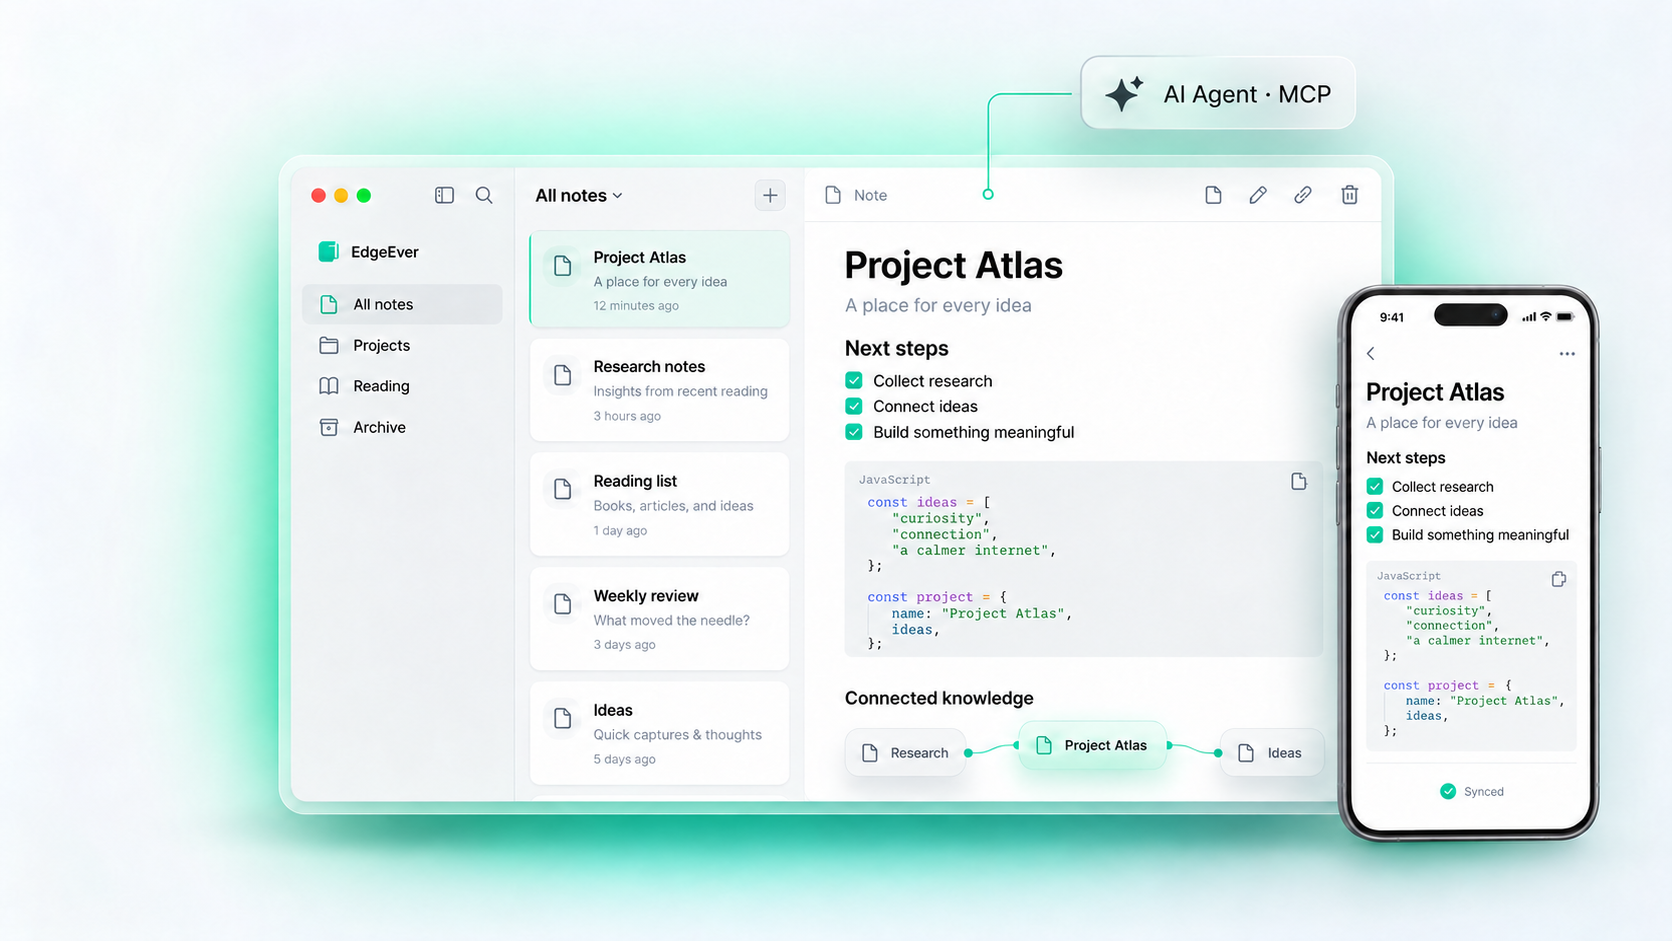
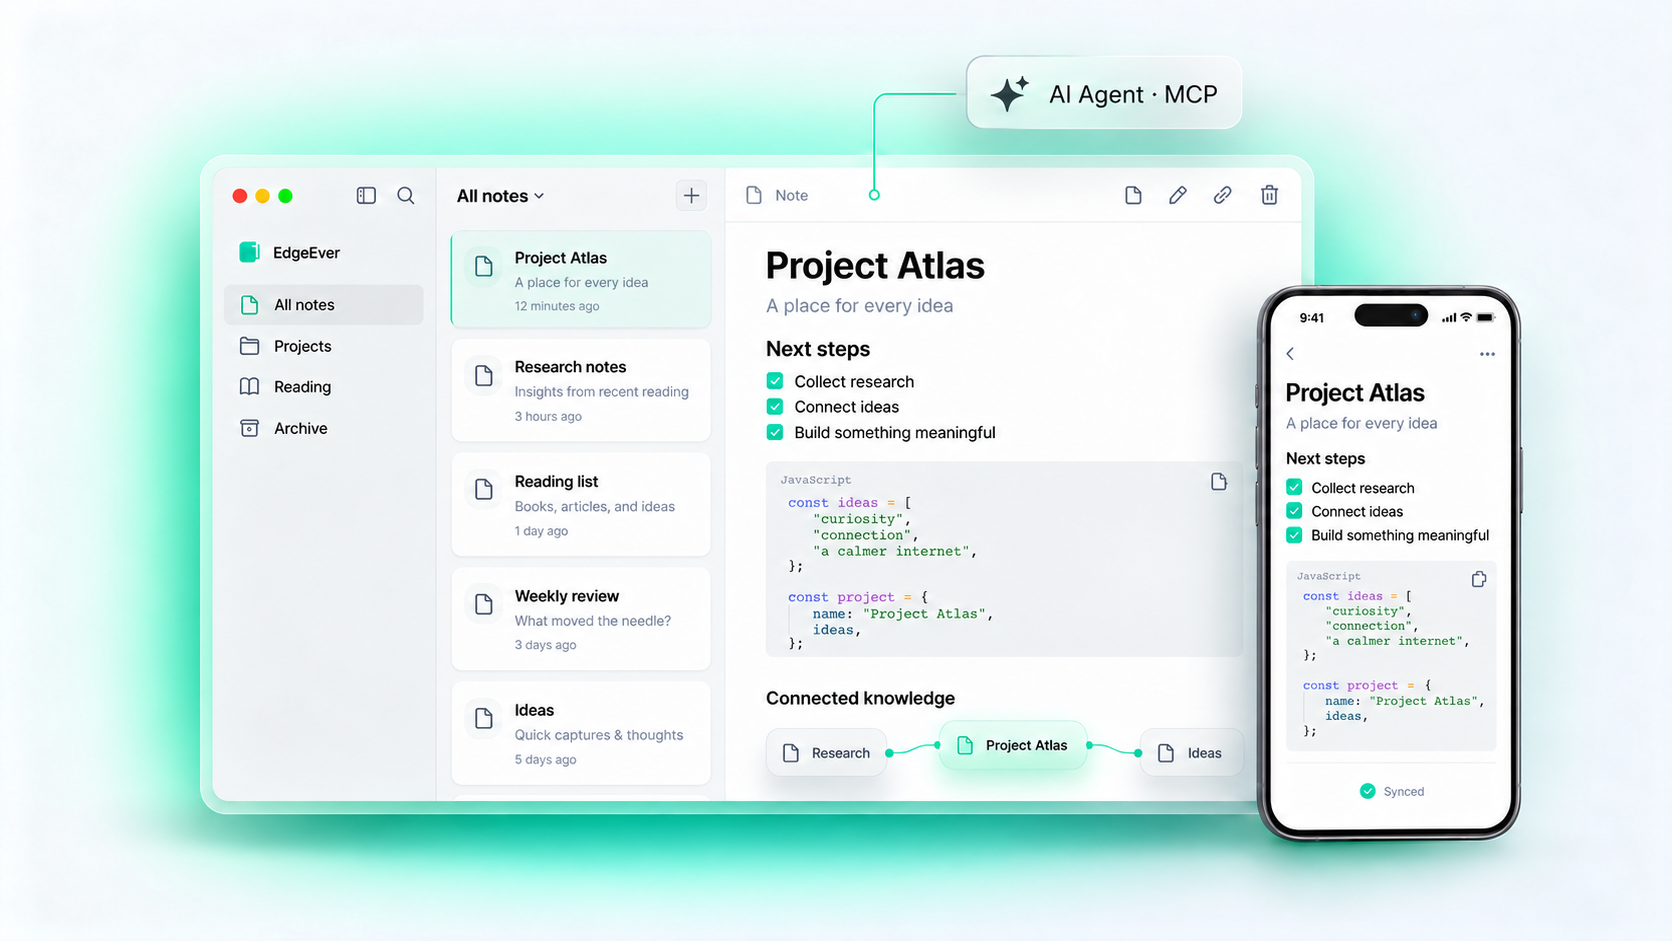
docs: balance hero composition across README and website

diff --git a/README.ja.md b/README.ja.md
@@ -23,7 +23,7 @@
     <a href="#features">機能とワークフローマトリクス</a>
   </p>
   <p align="center">
-    <img src="assets/readme/edgeever-hero-v5.png" alt="EdgeEver ワークスペースプレビュー" width="800" />
+    <img src="assets/readme/edgeever-hero-v6.png" alt="EdgeEver ワークスペースプレビュー" width="800" />
   </p>
 </div>
 

diff --git a/README.pl-PL.md b/README.pl-PL.md
@@ -23,7 +23,7 @@
     <a href="#features">Macierz funkcji i zastosowań</a>
   </p>
   <p align="center">
-    <img src="assets/readme/edgeever-hero-v5.png" alt="Podgląd przestrzeni roboczej EdgeEver" width="800" />
+    <img src="assets/readme/edgeever-hero-v6.png" alt="Podgląd przestrzeni roboczej EdgeEver" width="800" />
   </p>
 </div>
 

diff --git a/README.zh-CN.md b/README.zh-CN.md
@@ -23,7 +23,7 @@
     <a href="#features">核心功能与场景矩阵</a>
   </p>
   <p align="center">
-    <img src="assets/readme/edgeever-hero-v5.png" alt="EdgeEver 产品工作区预览" width="800" />
+    <img src="assets/readme/edgeever-hero-v6.png" alt="EdgeEver 产品工作区预览" width="800" />
   </p>
 </div>
 

diff --git a/README.zh-TW.md b/README.zh-TW.md
@@ -23,7 +23,7 @@
     <a href="#features">核心功能與場景矩陣</a>
   </p>
   <p align="center">
-    <img src="assets/readme/edgeever-hero-v5.png" alt="EdgeEver 產品工作區預覽" width="800" />
+    <img src="assets/readme/edgeever-hero-v6.png" alt="EdgeEver 產品工作區預覽" width="800" />
   </p>
 </div>
 

diff --git a/README.md b/README.md
@@ -23,7 +23,7 @@
     <a href="#features">Feature Matrix & Capabilities</a>
   </p>
   <p align="center">
-    <img src="assets/readme/edgeever-hero-v5.png" alt="EdgeEver Workspace Preview" width="800" />
+    <img src="assets/readme/edgeever-hero-v6.png" alt="EdgeEver Workspace Preview" width="800" />
   </p>
 </div>
 
